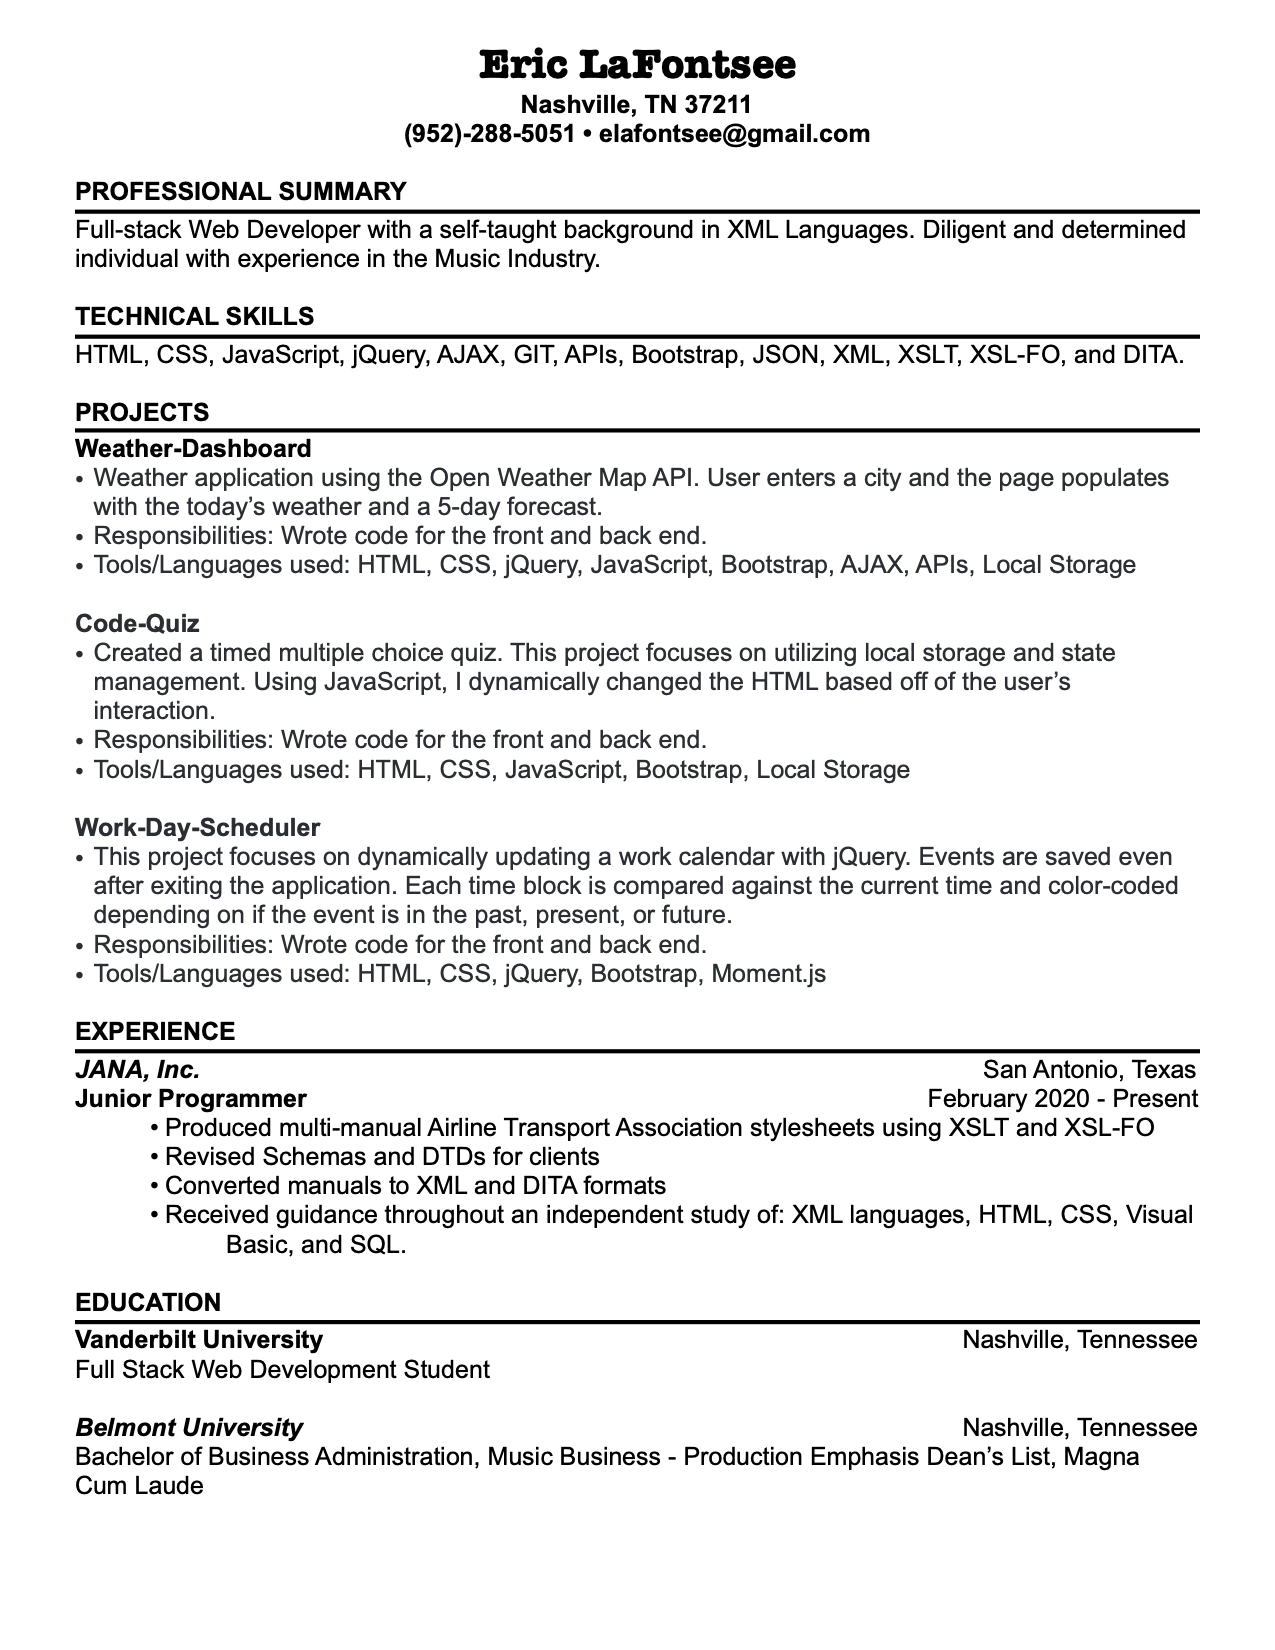
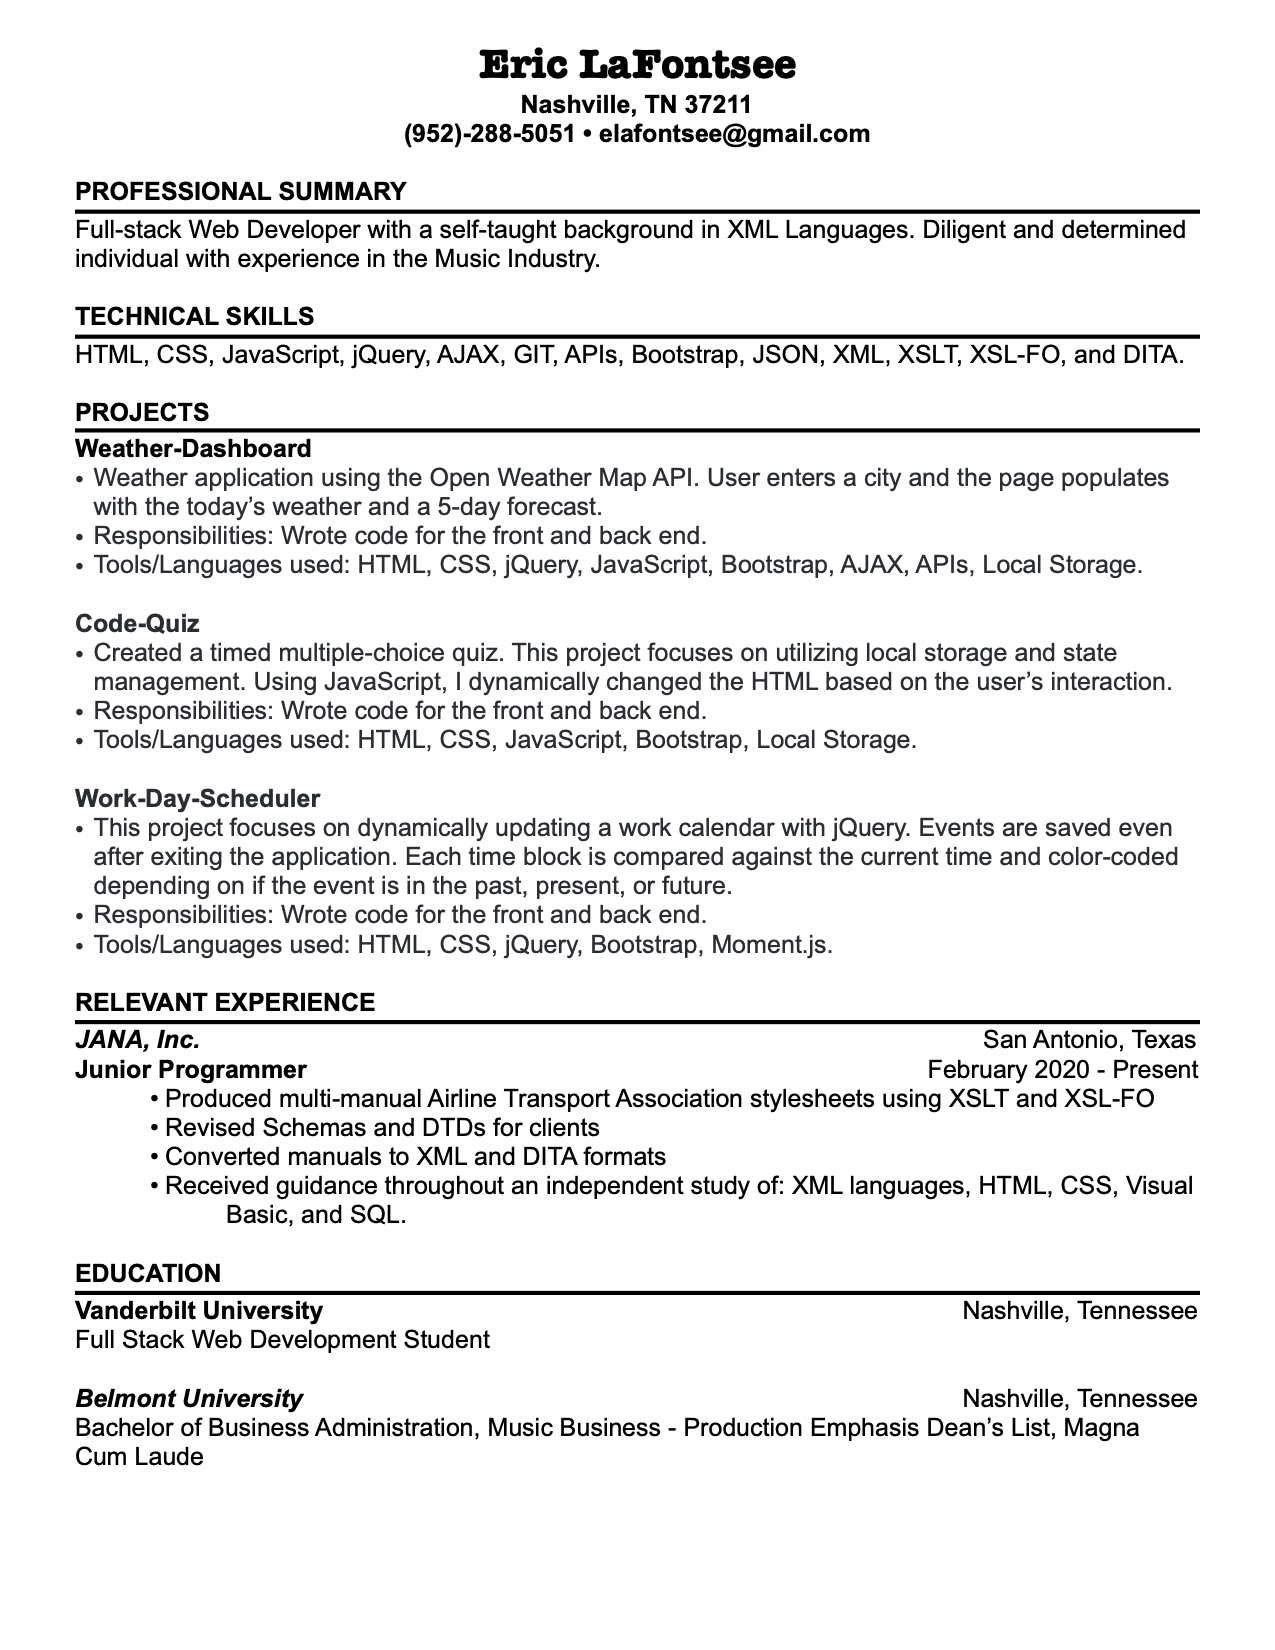
Fixed Resume typos, fixed README typo

Changed region(s): [[0.0612, 0.3709, 0.9482, 0.9273]]

diff --git a/portfolio.html b/portfolio.html
@@ -77,12 +77,12 @@
                             </div>
                         </div>
                         <div class="card margin-top mx-auto" style="width: 30rem;">
-                            <a href="https://ericlafontsee.github.io/Work-Day-Scheduler/" target="_blank"><img src="assets/images/password-gen.png" class="cardimg rounded d-block w-100 p-0 m-0" alt="Work-Day-Scheduler App" /></a>
+                            <a href="https://kelalarrzenai.github.io/Time-Well-Wasted/" target="_blank"><img src="assets/images/TimeWellWasted.png" class="cardimg rounded d-block w-100 p-0 m-0" alt="Work-Day-Scheduler App" /></a>
                             <div class="card-body text-center">
-                                <h5 class="card-title"> Password Generator
+                                <h5 class="card-title"> Time Well Wasted
                                 </h5>
-                                <a href="https://github.com/ericlafontsee/Password-Generator" target="_blank" class="btn  m-3">GitHub Repo</a>
-                                <a href="https://ericlafontsee.github.io/Password-Generator/" target="_blank " class="btn  m-3 ">Deployed App</a>
+                                <a href="https://github.com/KelalArrzenai/Time-Well-Wasted" target="_blank" class="btn  m-3">GitHub Repo</a>
+                                <a href="https://kelalarrzenai.github.io/Time-Well-Wasted/" target="_blank " class="btn  m-3 ">Deployed App</a>
                             </div>
                         </div>
                     </div>

diff --git a/resume.html b/resume.html
@@ -47,7 +47,7 @@
     <div class="row mb-3">
         <div class="col-md-12">
             <div class="card resume margin-top">
-                <a href="https://drive.google.com/file/d/1yb9eGuDai0RGmmkObb__kIvPO7oQJEym/view?usp=sharing"> <svg width="2em" height="2em" viewBox="0 0 16 16" class="bi bi-download" fill="currentColor" xmlns="http://www.w3.org/2000/svg">
+                <a href="https://drive.google.com/file/d/1SeOB1Sipwgn7tsDr4H7k9gwA3twBFAWH/view?usp=sharing"> <svg width="2em" height="2em" viewBox="0 0 16 16" class="bi bi-download" fill="currentColor" xmlns="http://www.w3.org/2000/svg">
                     <path fill-rule="evenodd" d="M.5 9.9a.5.5 0 0 1 .5.5v2.5a1 1 0 0 0 1 1h12a1 1 0 0 0 1-1v-2.5a.5.5 0 0 1 1 0v2.5a2 2 0 0 1-2 2H2a2 2 0 0 1-2-2v-2.5a.5.5 0 0 1 .5-.5z"/>
                     <path fill-rule="evenodd" d="M7.646 11.854a.5.5 0 0 0 .708 0l3-3a.5.5 0 0 0-.708-.708L8.5 10.293V1.5a.5.5 0 0 0-1 0v8.793L5.354 8.146a.5.5 0 1 0-.708.708l3 3z"/>
                   </svg>

diff --git a/assets/style.css b/assets/style.css
@@ -14,7 +14,7 @@ body {
 }
 
 .cardimg {
-    border-color: #556270;
+    border: 1px solid #556270;
 }
 
 h3 {

diff --git a/README.md b/README.md
@@ -8,7 +8,7 @@ Finally, I updated the styling of the portfolio with my own color scheme and bac
 This project is mobile responsive.
 
 
-This Work Day Scheduler is deployed to GitHub Pages:  
+My portfolio is deployed to GitHub Pages:  
 https://ericlafontsee.github.io/Updated-Portfolio/
 
 ## Usage
@@ -63,5 +63,5 @@ Finally, to utilize the Bootstrap grid in your webpage you must use the followin
  ## Author
  Eric LaFontsee  
   
-  ## License
+## License
   MIT
